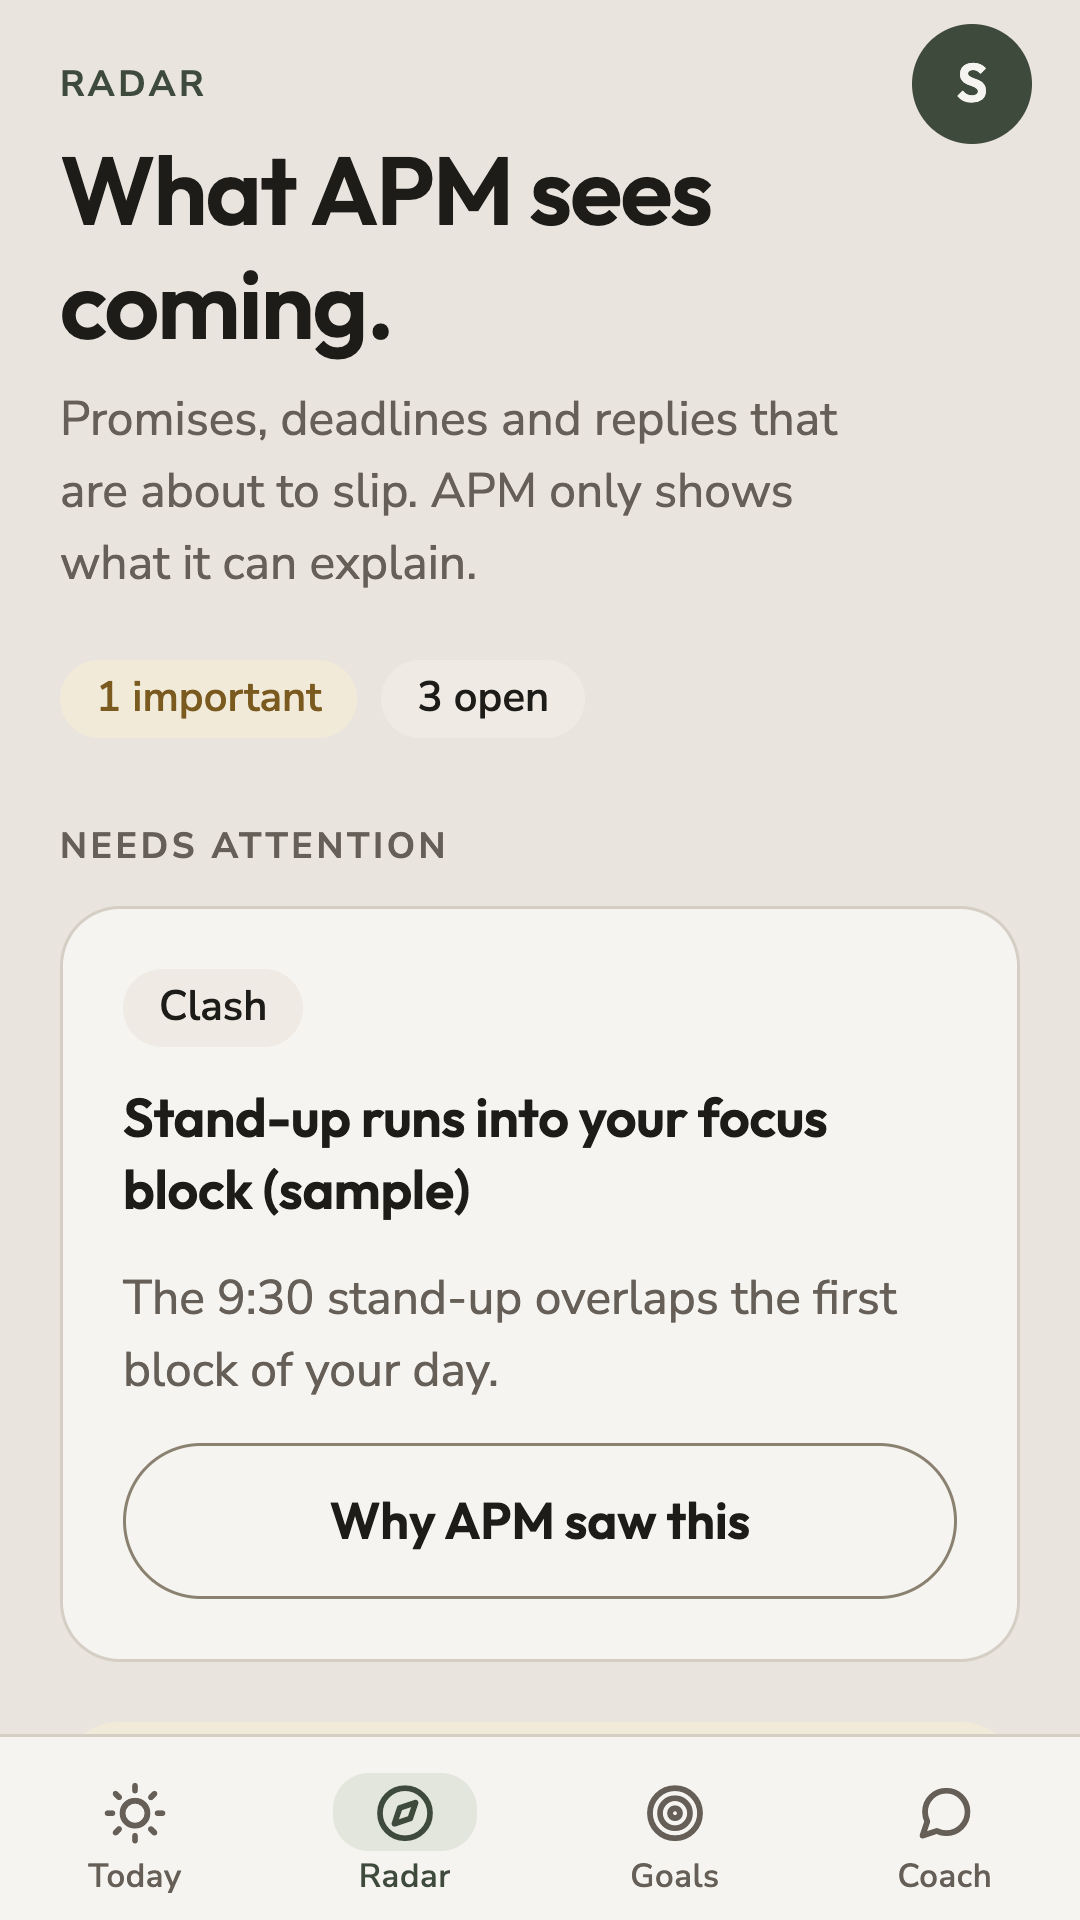
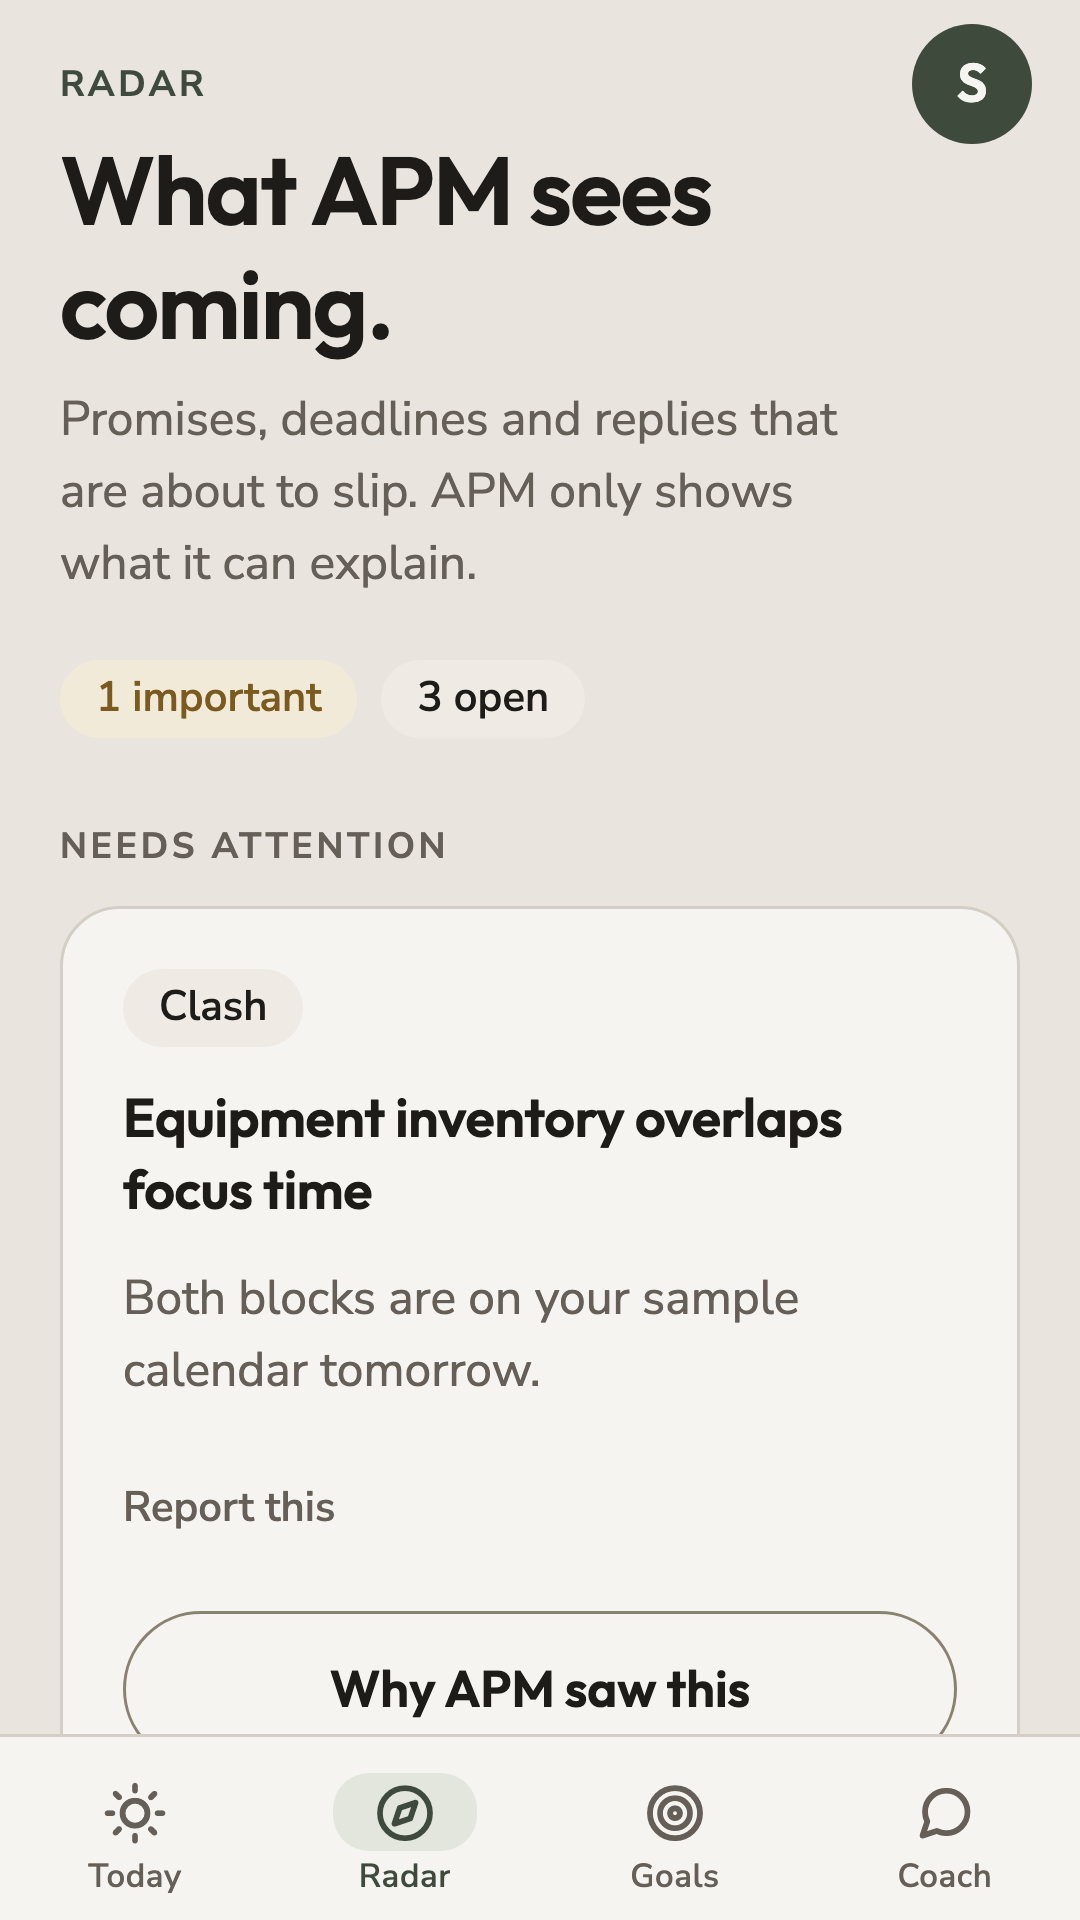
Store files: review notes for the review-code box, screenshots re-captured from main (#113)
* Store files: review notes for the review-code box, re-captured screenshots (App Store 1320x2868, Play 1080x1920), tests for both

Claude-Session: https://claude.ai/code/session_01CJ98gQfnHaMcPcL9awPVMW

* Store test: read the escaped apostrophe in the app source once, no hand escaping (CodeQL js/incomplete-sanitization)

Claude-Session: https://claude.ai/code/session_01CJ98gQfnHaMcPcL9awPVMW

---------

diff --git a/apps/mobile/store/app-review-notes.md b/apps/mobile/store/app-review-notes.md
@@ -1,0 +1,57 @@
+# App Review: Sign-In Information and notes (App Store Connect and Google Play)
+
+The one source for what the store reviewer is told. Paste it into App Store Connect → the version → App Review Information, and into Play Console → App content → App access. Nothing here is sent from the repo. `test/store-listing.test.mjs` checks the notes fit Apple's 4,000-character limit, and that every button or label they quote is in the app or in the review account's sample data.
+
+## Sign-In Information
+
+- **User name:** `appreview@aplayermode.com` (`APP_REVIEW_EMAIL` in `services/api/wrangler.jsonc`).
+- **Password:** the review code, read from the Boss OS vault entry `APP_REVIEW_CODE` (the same value as the Worker secret of that name). It is never written in this repo. RUNBOOK "Store review sign-in" covers setting it, its end date (`APP_REVIEW_UNTIL`) and removing it after the review.
+- **The code box:** 1.0.1 builds up to build 11 take 6 digits only. From the next build the box takes 6 digits, or 12 to 24 letters and digits (`REVIEW_CODE_PATTERN`, #108). A long code works only once a build with the wider box is the one in review.
+
+## Notes (App Store Connect → Notes; at most 4,000 characters)
+
+```text
+1. SCREEN RECORDING
+Available on request.
+
+2. PURPOSE AND AUDIENCE
+A Player Mode (APM) is a daily planning and coaching app for busy adults (18+): founders, parents, operators, athletes. APM asks a few setup questions, then writes each day's plan (check-in, first hour, one priority), tracks goals with a 90-day plan, and offers an AI coach.
+
+3. HOW TO USE IT (demo account in Sign-In Information)
+- Sign-in: tap "I already have an account", then "Email me a 6-digit code". Type the demo email from Sign-In Information and tap "Email me a 6-digit code" again. No email is sent: the app shows "Your review code". Type the Password from Sign-In Information in the Review code box exactly as written and tap "Verify and continue".
+- Tap "I'm 18 or older", then "I agree" for health information (it turns on the morning score used below; "Not now" also works).
+- Answer the setup questions, then tap "Start my plan". The review account holds Autopilot (all three plans) for review, so no purchase is needed.
+- Tabs: Today ("Show my plan for today", then "Mark done"), Radar ("Why APM saw this"), Goals ("Add goal and build its plan"), Coach ("Start coaching").
+- Executive Suite and Autopilot (no Google or Microsoft account needed): Settings > Life areas has three items marked "(sample)".
+  1. Settings > Privacy & AI > Permissions & Autonomy > "Goal checklists and task moves": tap "Increase to" until it shows "3 · Prepare". APM never grants itself a permission.
+  2. Today: pick 1 or 2 as the morning score, tap "Show my plan for today". A "Take a task off today" card offers to move "Pick up groceries for the week (sample)" to a later day. Tap "Approve".
+  3. Radar shows the sample car insurance renewal.
+  4. Settings > Autopilot shows the standing rules, "Pause all Autopilot" and the done-list. Autopilot moves calendar events on its own only on a Google or Outlook calendar connected in Privacy & AI > Connections. Emails and cancellations are always drafts sent on a tap.
+- Report (Guideline 1.2): every coach reply, plan item and Radar item has "Report this" > reason > "Reported".
+- Settings: the round account button (top right). Your plan has "Change plan" and "Restore purchases" (sandbox works). Privacy & AI covers AI use, connections, export and delete.
+- Account deletion: Settings > Delete account > "Delete my account" > "Delete everything". Signed out at once; the server erases the account within 24 hours. The demo account is recreated on the next demo sign-in.
+- Subscriptions (auto-renewing, monthly or annual, In-App Purchase): Executive Roundtable, Executive Suite, Autopilot.
+
+4. EXTERNAL SERVICES
+- Supabase: authentication (Sign in with Apple, email one-time codes) and database.
+- api.aplayermode.com on Cloudflare Workers: the app's own API.
+- OpenRouter (AI router): coaching replies and plan text; providers may not train on user data.
+- Apple In-App Purchase, managed through RevenueCat.
+- Expo push (notifications); Resend (renewal reminder emails).
+- Optional, only if the person connects them in Privacy & AI: Google Calendar (Google OAuth), Outlook calendar and mail (Microsoft OAuth), and the phone's calendars the person picks (iOS permission prompt).
+- No advertising or third-party analytics SDKs; no data sale.
+
+5. REGIONS
+The same in every region; English interface. Crisis resources follow the phone's time zone (988 and 911 in the US; elsewhere local crisis lines and the local emergency number).
+
+6. REGULATED INDUSTRY / HEALTH
+APM is not a medical, mental-health, financial or legal service and makes no health claims; the Coach says it is not therapy or medical, legal or financial advice. Health information (movement, weight rhythm, the energy score) is collected only after a separate opt-in, used only to pace the Body steps, never sold or used for ads (Consumer Health Data Privacy Policy, linked in the app). On crisis language, coaching stops and crisis resources are shown. Autopilot never acts on money or health. Adults only (18+).
+```
+
+## Google Play → App access
+
+"Some functionality is restricted": one instruction set, with the same user name and the same code as above. Note to paste:
+
+```text
+On the first screen tap "I already have an account", then "Email me a 6-digit code". Type the user name above and tap "Email me a 6-digit code" again. No email is sent: the app shows "Your review code". Type the password above exactly as written and tap "Verify and continue". The account holds every plan for review, so no purchase is needed. Calendar and Outlook mail connections are optional.
+```

diff --git a/apps/mobile/store/google-play/play-console.md b/apps/mobile/store/google-play/play-console.md
@@ -73,15 +73,12 @@ Firebase, ad or analytics SDK in `package.json`).
 
 ## App access (notes for the reviewer)
 
-- **Some functionality is restricted** (sign-in). Use the one review account:
-  - Username: `appreview@aplayermode.com` (`services/api/wrangler.jsonc:43`).
-  - Password / code: the `APP_REVIEW_CODE` Worker secret (6 digits today; 16 letters and digits from the next review,
-    RUNBOOK "Store review sign-in"). **Type it into Play Console only, never into this repo.** It is the same code given to App Review.
-  - Note to paste: "On the first screen tap Start, confirm 18+, then 'Email me a 6-digit code' with the address above.
-    No email is sent for this account; type the code we gave, exactly as written. The account has full access without a purchase
-    (closed-beta grant), so the whole app can be reviewed. Calendar and Outlook mail connections are optional."
-  - How it works: `services/api/src/reviewLogin.ts` (one address, constant-time compare, audited, off unless both values
-    are set); full access from `services/api/migrations/0070_app_review_beta.sql` (granted until 30 Apr 2027).
+- **Some functionality is restricted** (sign-in). User name, password (the review code, from the vault by name only)
+  and the note to paste are in `../app-review-notes.md` → "Google Play → App access": one source for both stores.
+- How it works: `services/api/src/reviewLogin.ts` (one address, constant-time compare, wrong codes counted per device
+  and per day, audited, off unless both values are set and before `APP_REVIEW_UNTIL`); full access from
+  `services/api/migrations/0070_app_review_beta.sql` and `0105_review_account_suite.sql` (Autopilot for review, sample
+  Life-areas items).
 
 ## Financial features
 
